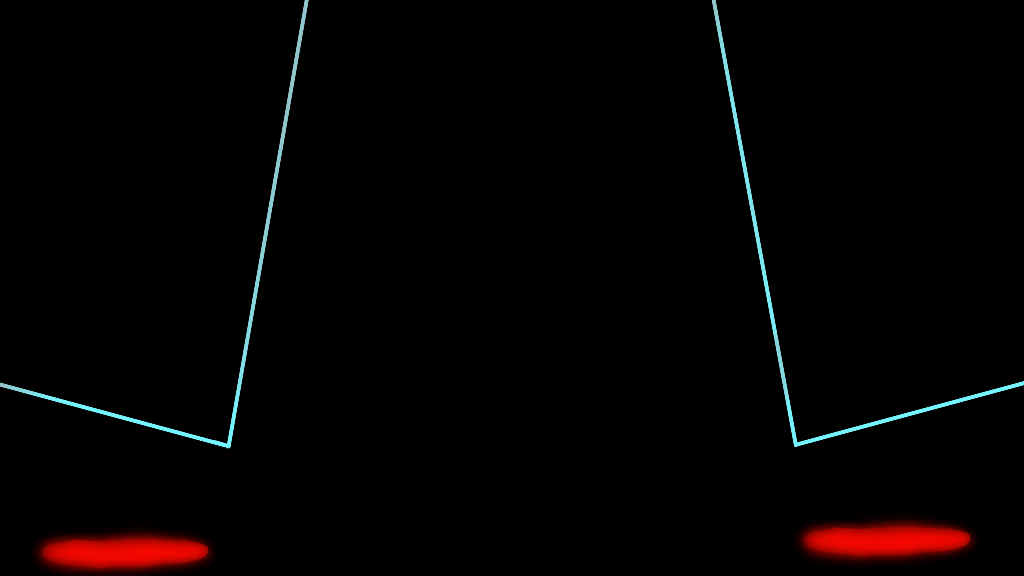
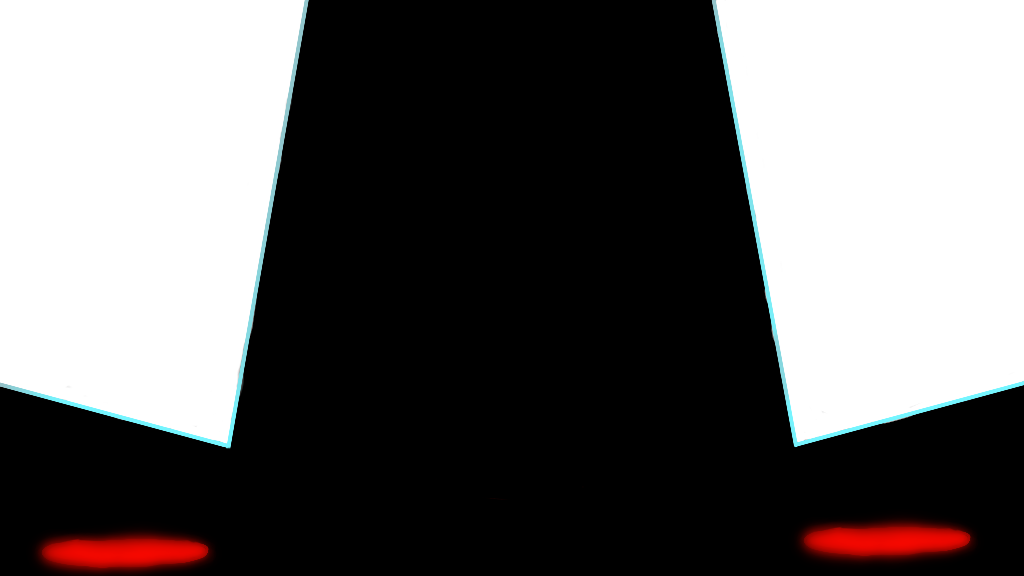
progreso selecpj

diff --git a/core/src/Screens/MenuPrincipal.java b/core/src/Screens/MenuPrincipal.java
@@ -6,7 +6,9 @@ import com.badlogic.gdx.graphics.Color;
 import com.badlogic.gdx.graphics.g2d.Animation;
 import com.badlogic.gdx.graphics.g2d.SpriteBatch;
 import com.badlogic.gdx.graphics.g2d.TextureRegion;
- 
+import com.badlogic.gdx.scenes.scene2d.ui.Button;
+import com.badlogic.gdx.scenes.scene2d.ui.TextButton;
+import com.badlogic.gdx.scenes.scene2d.ui.TextButton.TextButtonStyle;
 
 import Entradas.Entradas;
 import utiles.Config;
@@ -25,15 +27,18 @@ public class MenuPrincipal implements Screen{
 	String  texts[] = {"Arcade", "Online", "Entrenamiento", "Galeria", "Salir del juego"};
 	Entradas entradas = new Entradas(this);
 	float elapsed = 0;
+	 
+	 
+	 
 	int opc = 1;
 	public float tiempo = 0;
 
 	@Override
 	public void show() {
-		
+		 
 		menu = new Imagen(Recursos.TITLESCREEN);
 		menu.setSize(Config.tamanioDeAlgo(60,Config.WIDTH),Config.tamanioDeAlgo(60,Config.HEIGHT));
-		menu.setPosition(Config.centrado(60, Config.WIDTH),Config.centrado(50,Config.WIDTH));// Config.HEIGHT/2
+		menu.setPosition(Config.centrado(Config.WIDTH),Config.centrado(Config.WIDTH));// Config.HEIGHT/2
 		b = Render.batch;
 		animation = GifDecoder.loadGIFAnimation(Animation.PlayMode.LOOP, Gdx.files.internal("Fondos/Fem.gif").read());
 		 
@@ -47,6 +52,7 @@ public class MenuPrincipal implements Screen{
 		
 		for (int i = 0; i < options.length; i++) {
 			options[i] = new Text(Recursos.MENUFONT, 30, Color.WHITE);
+		
 			options[i].setTexto(texts[i]);
 			
 			options[i].setPosition((Config.WIDTH/2)-(options[i].getWidth()/2), (Config.HEIGHT/2)+(options[0].getHeight()/2)-(options[i].getHeight()+(avance*i)));
@@ -77,10 +83,10 @@ public class MenuPrincipal implements Screen{
 
 		tiempo += delta;
 
-		if(entradas.isDown()){
-			if(tiempo > 0.1f){
+		if(entradas.isDown()){ 	//entradas = input entrys
+			if(tiempo > 0.1f){ 	//tiempo = time
 				tiempo = 0;
-				opc++;
+				opc++;			// opc= option;
 				if(opc > 5){
 					opc = 1;
 				}
@@ -97,20 +103,19 @@ public class MenuPrincipal implements Screen{
 		}
 		for (int i = 0; i < options.length; i++) {
 			if(i==(opc-1)){
-				options[i].setColor(Color.RED);
+				options[i].setColor(Color.RED);  //this is a Texts array 
 			}
 			else{
 				options[i].setColor(Color.WHITE);
 			}
-			
 		}
 		if(entradas.isEnter()){
 			switch(opc){
 				case 1:
-				Render.app.setScreen(new PantallaCarga());
+				Render.app.setScreen(new PantallaCarga()); //PantallaCarga = LoadingScreen
 				break;
 				case 3:
-				Render.app.setScreen(new SeleccionPJ());
+				Render.app.setScreen(new SeleccionPJ()); // SeleccionPJ = CharacterSelection
 				break;
 				case 5:
 				Gdx.app.exit();

diff --git a/core/src/Screens/SeleccionPJ.java b/core/src/Screens/SeleccionPJ.java
@@ -11,7 +11,9 @@ public class SeleccionPJ implements Screen {
     private Imagen fondoImagen;
     private Mordred m;
 	private SpriteBatch b;
-	 
+	private Imagen portrait;
+    private Imagen portraitEnemigo;
+     
     @Override
     public void show() { 
         fondoImagen=new Imagen(Recursos.SELECCPJ);
@@ -21,14 +23,35 @@ public class SeleccionPJ implements Screen {
 		b = Render.batch;
         
         
+       
     }
+    public void mostrarRetrato(int opc,boolean p1){  // opc va a ser igual al personaje que el usuario elija
+        if(p1==true){
+            portrait = new Imagen(Retratos.values()[opc].getRuta());
+        portrait.setSize(Config.tamanioDeAlgo(35, Config.WIDTH), Config.tamanioDeAlgo(70, Config.HEIGHT));
+        portrait.setPosition(Config.centrado(Config.WIDTH)-((18.3f*Config.WIDTH)/100),Config.centrado(Config.HEIGHT)+((10.42f*Config.HEIGHT)/100));  
+
+        }
+        if(p1==false){
+            
+            portraitEnemigo = new Imagen(Retratos.values()[opc].getRuta());
+            portraitEnemigo.setSize(Config.tamanioDeAlgo(40, Config.WIDTH), Config.tamanioDeAlgo(70, Config.HEIGHT));
+            portraitEnemigo.setPosition(Config.centrado(Config.WIDTH), Config.HEIGHT);
+            // portraitEnemigo.setPosition(Config.centrado(Config.WIDTH)-((18.3f*Config.WIDTH)/100),Config.centrado(Config.HEIGHT)+((10.42f*Config.HEIGHT)/100));  
+        }
+}
 
     @Override
     public void render(float delta) {
 
        Render.cleaner();
+        mostrarRetrato(0,true);
+        mostrarRetrato(1, false);
        b.begin();
+       portrait.dibujar();
+       portraitEnemigo.dibujar();
        fondoImagen.dibujar();
+       
        b.end();
         
     }

diff --git a/core/src/utiles/Config.java b/core/src/utiles/Config.java
@@ -17,6 +17,7 @@ public class Config {// ancho y alto de la resolucion del juego en base a la res
     private static final int Taskbar= 50;
     private static Camera camara;
     private static Viewport viewport;
+    private static int porcentaje;
  
     public static void initialize(){
         // no borres la linea de abajo, todavia la estoy testeando
@@ -45,7 +46,7 @@ public static void updateCamara(){
  */
 
 public static int tamanioDeAlgo(int porc,int xyvalue){
-
+    porcentaje = porc;
    return (porc*xyvalue/100);
 }
 
@@ -53,12 +54,12 @@ public static int tamanioDeAlgo(int porc,int xyvalue){
  * Para centrar cualquier cosa
  * 
  * @return posicion en pantalla
- * @param porc porcentaje de pantalla que va a ocupar
+ * Llamar primero a tamanioDeAlgo() si o si;
  * @param xyvalue por donde se va a centrar, usar config.WIDTH o config.HEIGHT para centrar horizontal o vertical respectivamente
  */
-public static int centrado(int porc,int xyvalue){
+public static int centrado(int xyvalue){
 
-    return (xyvalue/2-(Config.tamanioDeAlgo(porc,xyvalue))/2);
+    return (xyvalue/2-(Config.tamanioDeAlgo(porcentaje,xyvalue))/2);
 }
 
 }

diff --git a/desktop/src/com/mygdx/game/desktop/DesktopLauncher.java b/desktop/src/com/mygdx/game/desktop/DesktopLauncher.java
@@ -10,10 +10,12 @@ import com.mygdx.game.FateFightingGacha;
 public class DesktopLauncher {
 	public static void main (String[] arg) {
 		LwjglApplicationConfiguration config = new LwjglApplicationConfiguration();
+		
 		config.height=10;
 		config.width=12;
-		config.title="diaz puto";
+	 
 		config.fullscreen=true;
+		//config.fullscreen=true;
 		new LwjglApplication(new FateFightingGacha(), config);
 	
 		 

diff --git a/core/src/utiles/Retratos.java b/core/src/utiles/Retratos.java
@@ -1,0 +1,25 @@
+package utiles;
+
+public enum Retratos {
+    
+    MORDED("pngs/pngwing.com (8).png"),ASTOLFO("pngs/a.png"),ATALANTE("pngs/pngwing.com (1).png"),JEANNE("pngs/pngwing.com (4).png");
+
+    private String ruta;
+
+
+    private Retratos(String ruta){
+    this.ruta=ruta;
+
+    
+    }
+    public String getRuta() {
+        return ruta;
+    }
+
+
+
+
+
+
+
+}

diff --git a/core/src/utiles/Recursos.java b/core/src/utiles/Recursos.java
@@ -11,4 +11,5 @@ public class Recursos {
 	public final static String BACKGROUND = "fondos/fire.jpg";
 	public final static Music TITLEMUSIC = Gdx.audio.newMusic(Gdx.files.internal("Music/CosmosInTheLostbelt.mp3"));
 	public final static String SELECCPJ = "fondos/SeleccPJ.png";
+	public final static String MordredPORTRAIT = "pngs/pngwing.com (8)";
 }

diff --git a/core/src/utiles/Render.java b/core/src/utiles/Render.java
@@ -12,7 +12,7 @@ public class Render {
 	
 	public static FateFightingGacha app;
 	public static void cleaner() {
-		Gdx.gl.glClearColor(1, 1, 1, 1);	/*limpieza de pantalla*/
+		Gdx.gl.glClearColor(0, 0, 0, 1);	/*limpieza de pantalla*/
 		Gdx.gl.glClear(GL20.GL_COLOR_BUFFER_BIT);
 	}
 }
